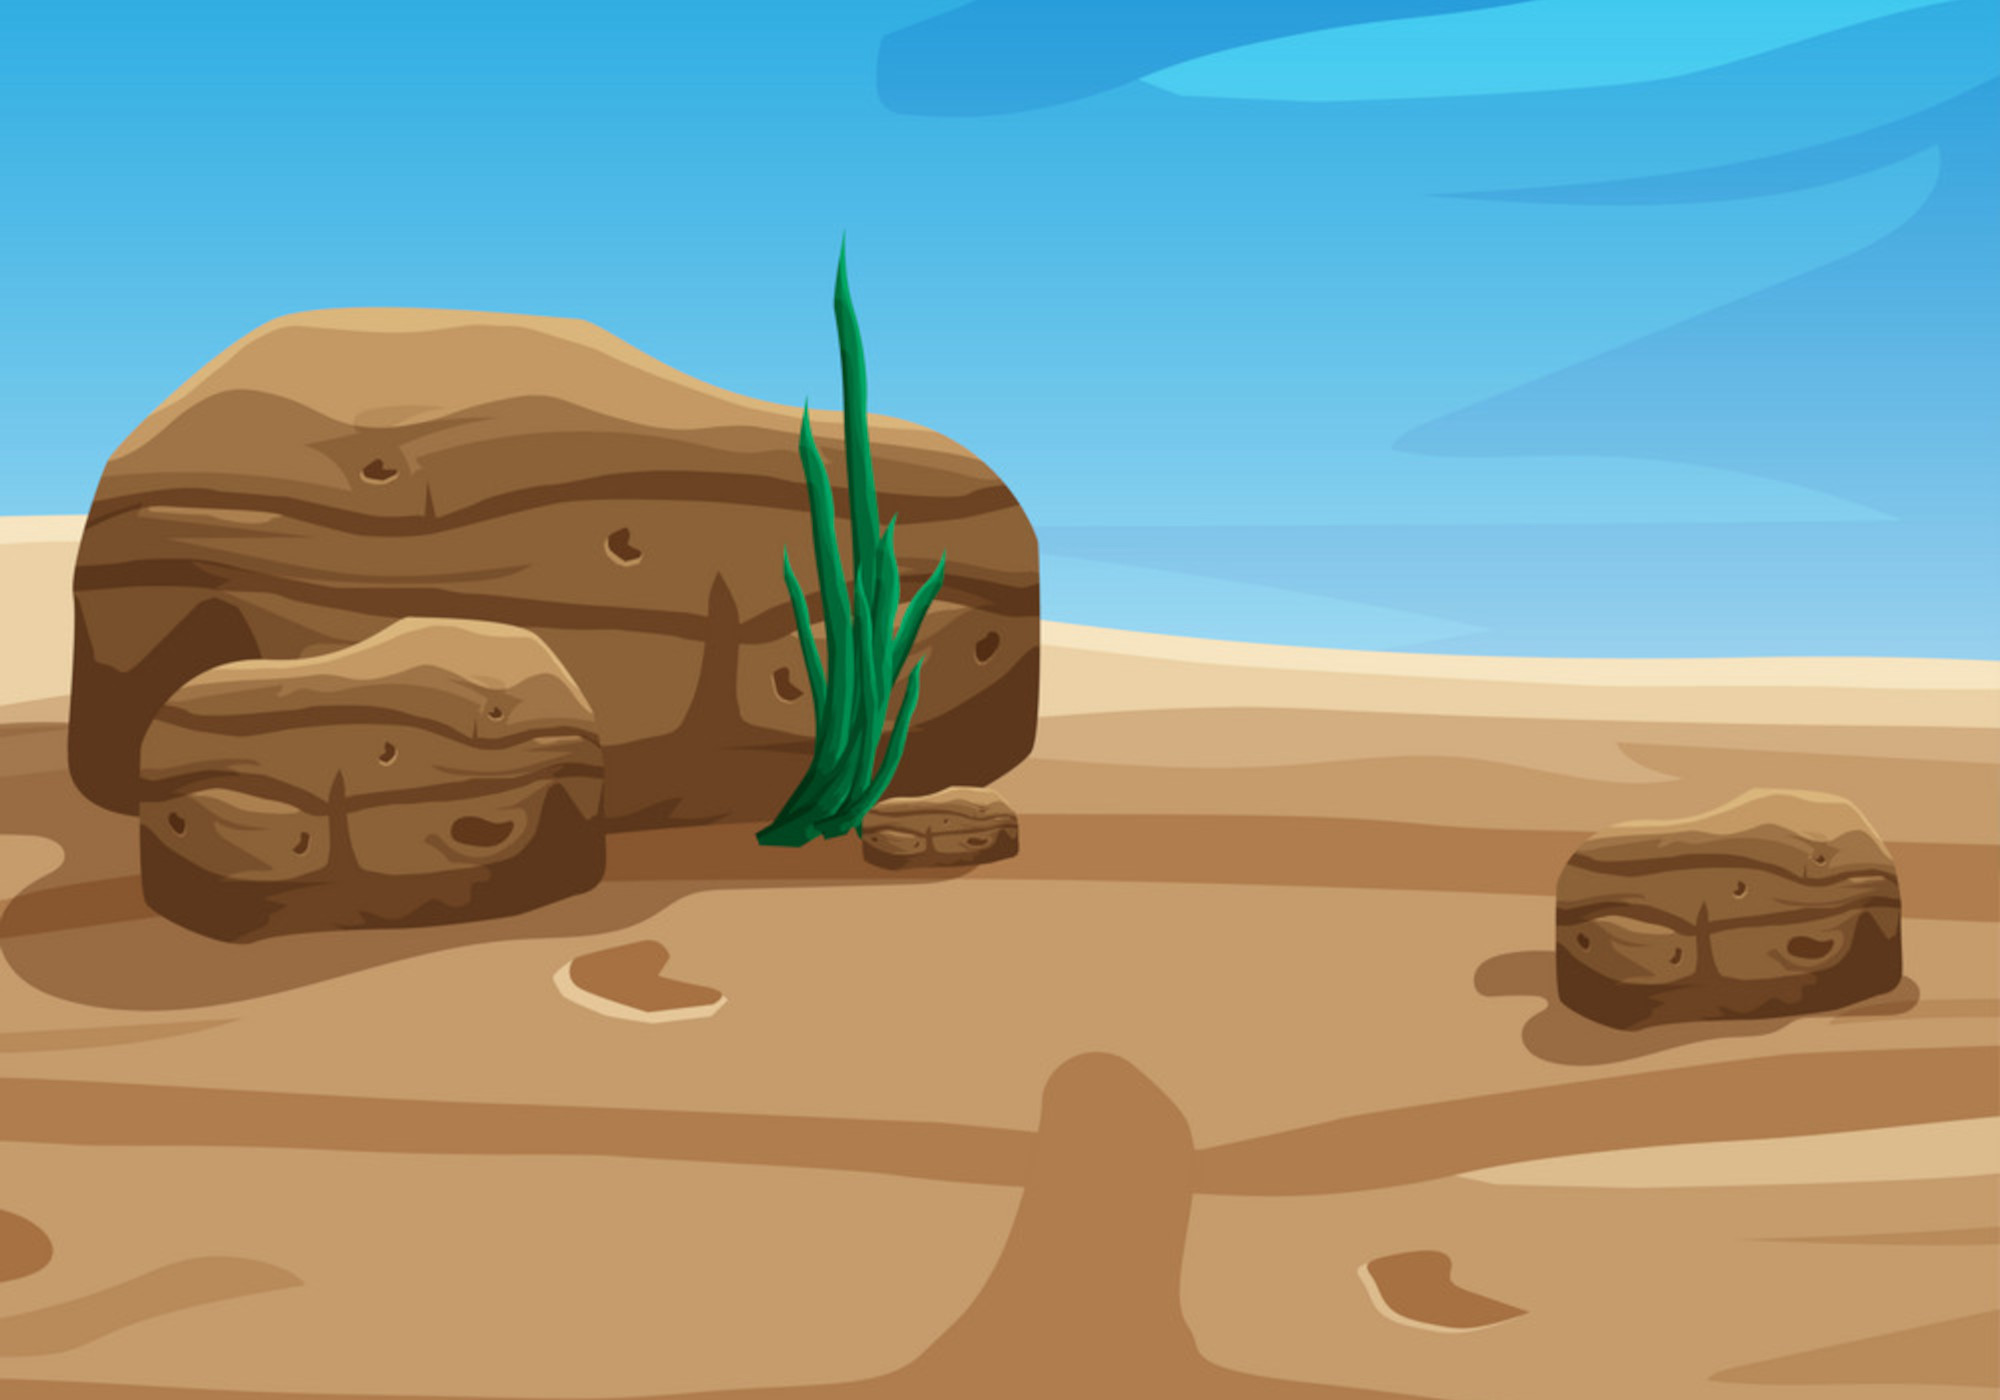
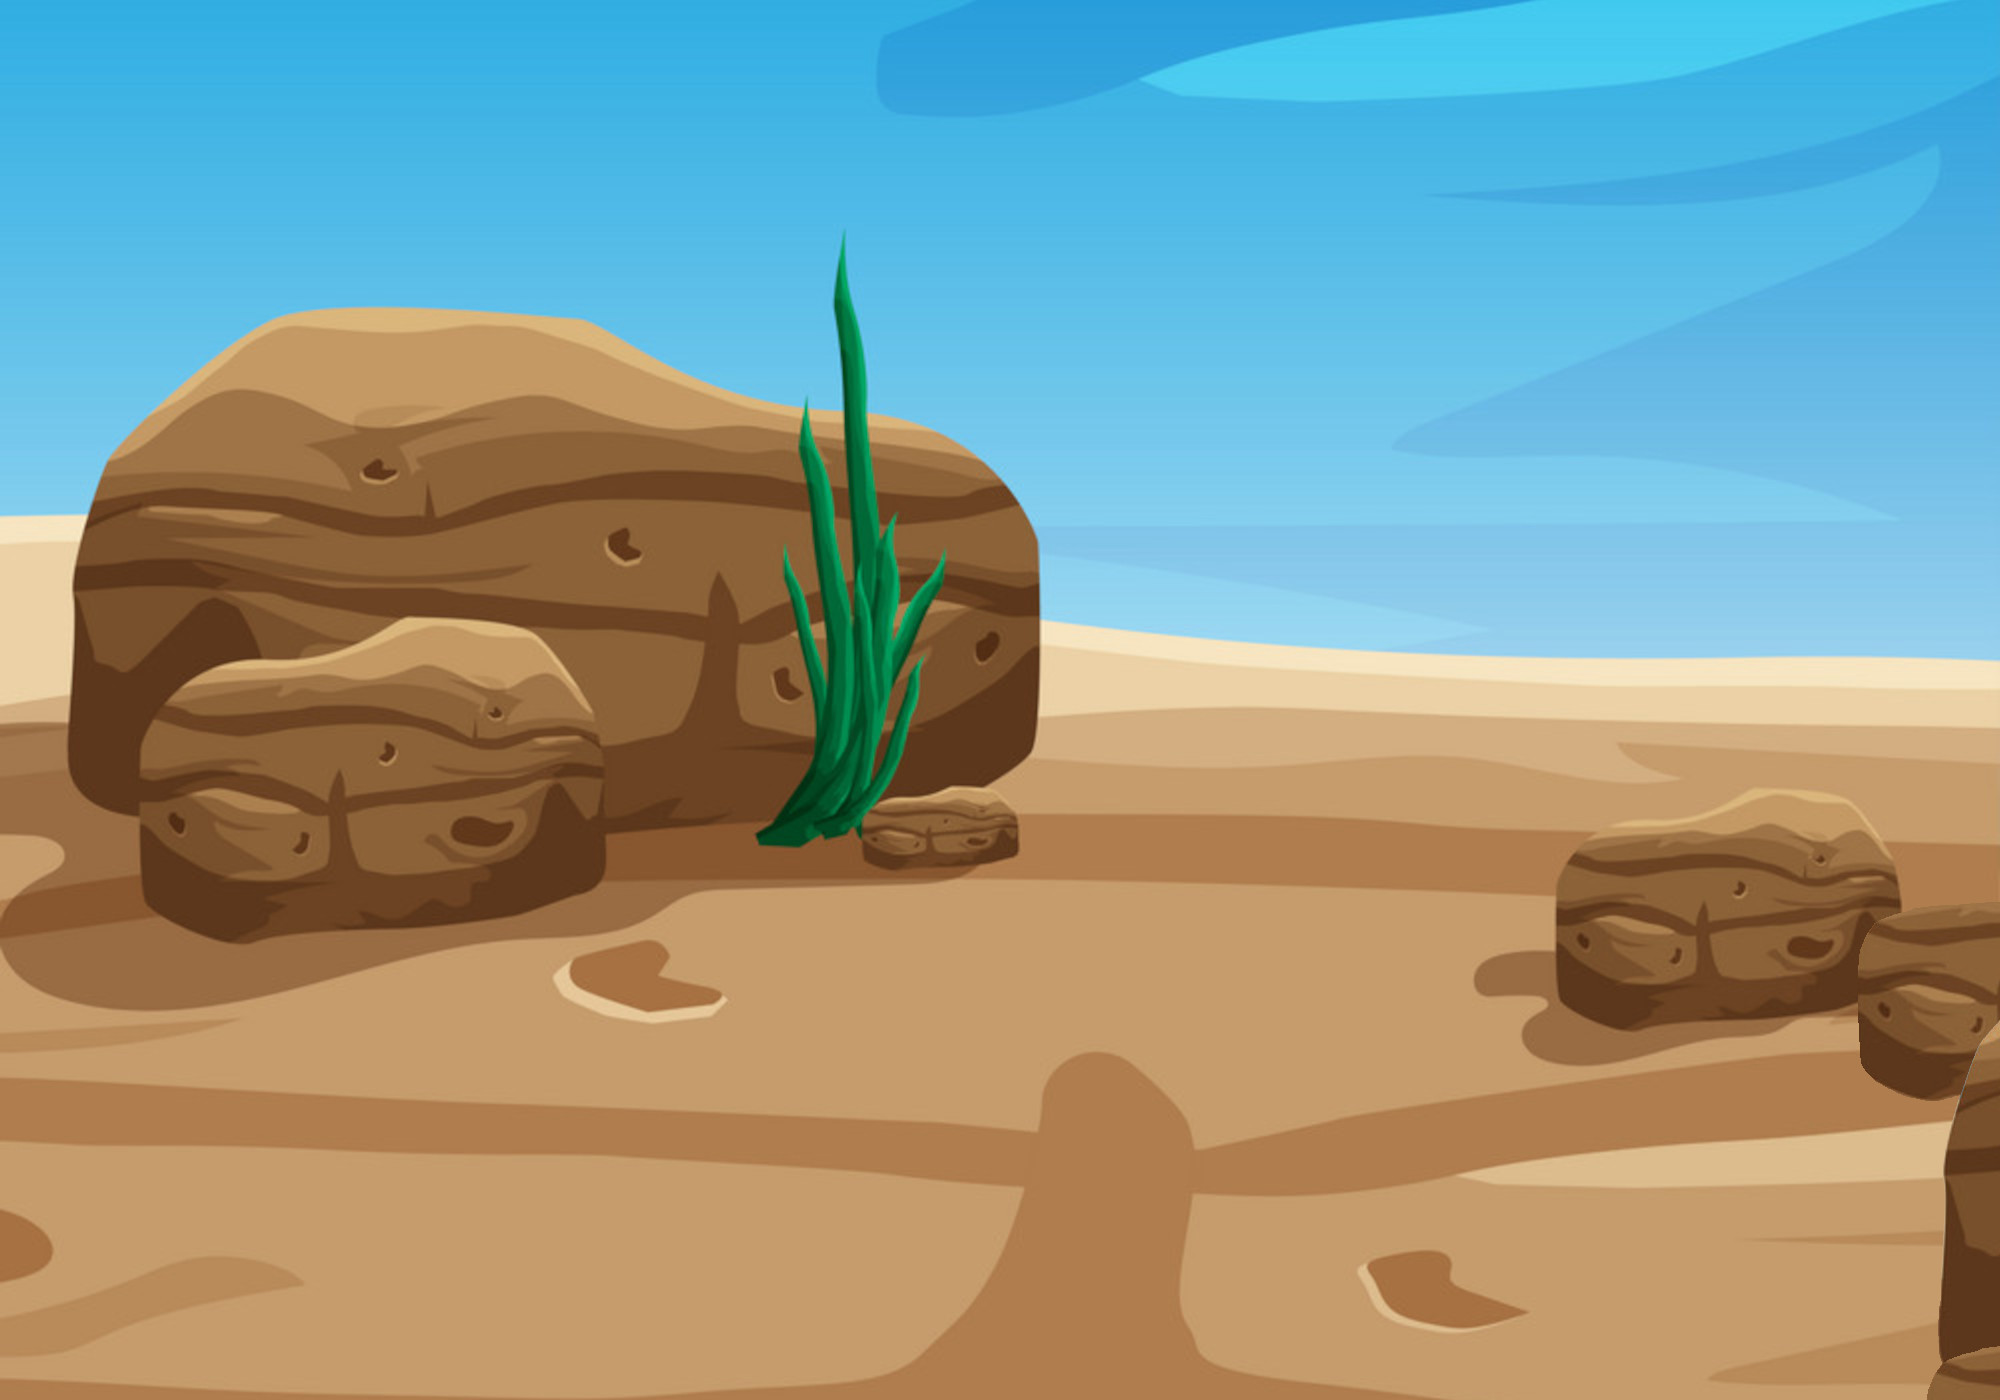
Bondage Brawl - Desert Expansion

Changed region(s): [[0.93, 0.645, 1.0, 1.0]]

diff --git a/BondageClub/Screens/Room/Platform/Platform.js b/BondageClub/Screens/Room/Platform/Platform.js
@@ -314,6 +314,30 @@ var PlatformTemplate = [
 		}
 	},
 	{
+		Name: "Zara", // MMD Z: 39.00, Y: 10.50
+		Status: "Slave",
+		Perk: "0000000000",
+		PerkName: ["Sneak", "Backstab", "Kidnapper", "Rigger", "Burglar", "Thief", "Spring", "Bounce", "Inventory", "Duplicate"],
+		Health: 12,
+		HealthPerLevel: 3,
+		Width: 400,
+		Height: 400,
+		HitBox: [0.4, 0.05, 0.6, 1],
+		JumpHitBox: [0.4, 0.05, 0.6, 0.7],
+		JumpForce: 43,
+		RunSpeed: 19,
+		WalkSpeed: 13,
+		CrawlSpeed: 7,
+		DamageAudio: ["Zara0", "Zara1", "Zara2", "Zara3", "Zara4", "Zara5", "Zara6", "Generic0", "Generic1"],
+		DownAudio: ["Zara0"],
+		BindAudio: ["Rope0", "Rope1", "Rope2", "Rope3"],
+		IdleAudio: ["Zara0", "Zara1", "Zara2", "Zara3"],
+		Animation: [
+			{ Name: "Walk", Cycle: [0, 1, 2, 3, 4, 5, 6, 7, 8, 9, 10, 11, 12, 13, 14], Speed: 60 },
+			{ Name: "Petrified", Cycle: [0], Speed: 1000 },
+		],
+	},
+	{
 		Name: "Olivia",
 		Status: "Chained",
 		Width: 400,
@@ -1822,6 +1846,14 @@ var PlatformRoomList = [
 		Door: [
 			{ Name: "ZaraPath2", FromX: 0, FromY: 0, FromW: 100, FromH: 1200, FromType: "Left", ToX: 2900, ToFaceLeft: true },
 		],
+		Entry: function() {
+			if ((PlatformPlayer.Name != "Zara") && !PlatformEventDone("ZaraJoin")) {
+				let Zara = PlatformCreateCharacter("Zara", "Slave", 1000, true, false, "ZaraPetrified");
+				Zara.Health = 0;
+				Zara.Bound = true;
+				Zara.Petrified = true;
+			}
+		},
 	},
 	{
 		Name: "DesertDunesCactus",
@@ -1832,11 +1864,44 @@ var PlatformRoomList = [
 		Height: 1400,
 		Door: [
 			{ Name: "DesertEntrance", FromX: 0, FromY: 0, FromW: 100, FromH: 1200, FromType: "Left", ToX: 2500, ToFaceLeft: true },
+			{ Name: "DesertDunesBrown", FromX: 3400, FromY: 0, FromW: 100, FromH: 1200, FromType: "Right", ToX: 100 },
 		],
 		Character: [
 			{ Name: "Vulture", Status: "Brown", X: 1200 },
 			{ Name: "Vulture", Status: "Brown", X: 2300 },
 		]
+	},
+	{
+		Name: "DesertDunesBrown",
+		Text: "Desert Dunes",
+		Background: "Desert/DunesBrown",
+		Music: "Desert",
+		Width: 4500,
+		Height: 1200,
+		Door: [
+			{ Name: "DesertDunesCactus", FromX: 0, FromY: 0, FromW: 100, FromH: 1200, FromType: "Left", ToX: 2500, ToFaceLeft: true },
+			{ Name: "DesertDunesHeat", FromX: 4400, FromY: 0, FromW: 100, FromH: 1200, FromType: "Right", ToX: 100 },
+		],
+		Character: [
+			{ Name: "Vulture", Status: "Brown", X: 1300 },
+			{ Name: "Vulture", Status: "Brown", X: 2250 },
+			{ Name: "Vulture", Status: "Brown", X: 3200 },
+		]
+	},
+	{
+		Name: "DesertDunesHeat",
+		Text: "Desert Dunes",
+		Background: "Desert/DunesBrown",
+		Music: "Desert",
+		Width: 4500,
+		Height: 1200,
+		Door: [
+			{ Name: "DesertDunesCactus", FromX: 0, FromY: 0, FromW: 100, FromH: 1200, FromType: "Left", ToX: 2500, ToFaceLeft: true },
+			{ Name: "DesertDunesBrown", FromX: 3400, FromY: 0, FromW: 100, FromH: 1200, FromType: "Right", ToX: 100 },
+		],
+		Entry: function() {
+			PlatformDialogStart("DesertEnd");
+		}
 	},
 
 ];

diff --git a/BondageClub/Screens/Room/PlatformDialog/PlatformDialog.js b/BondageClub/Screens/Room/PlatformDialog/PlatformDialog.js
@@ -3389,6 +3389,44 @@ var PlatformDialogData = [
 	},
 
 	{
+		Name: "ZaraPetrified",
+		Music: "Desert",
+		Dialog: [
+			{
+				Background: "BarrenRocks",
+				Character: [
+					{ Name: "Zara", Status: "Slave", Pose: "Petrified" },
+				]
+			},
+			{
+				Background: "BarrenRocks",
+				Character: [
+					{ Name: "Olivia", Status: "Oracle", Pose: "Idle" },
+					{ Name: "Zara", Status: "Slave", Pose: "Petrified" },
+					{ Name: "Melody", Status: "Maid", Pose: "Idle" },
+				]
+			},
+			{ Text: "(TO DO)" },
+		],
+	},
+
+	{
+		Name: "DesertEnd",
+		Music: "Desert",
+		Exit : function () { PlatformLoadRoom("DesertDunesBrown"); PlatformPlayer.X = 4400; PlatformPlayer.FaceLeft = true; },
+		Dialog: [
+			{
+				Background: "DunesHeat",
+				Character: [
+					{ Name: "Melody", Status: "Maid", Pose: "Idle" },
+					{ Name: "Olivia", Status: "Oracle", Pose: "Idle" },
+				]
+			},
+			{ Text: "(TO DO)" },
+		],
+	},
+
+	{
 		Name: "OliviaLover1Start",
 		Music: "MelodyRoom",
 		Dialog: [
